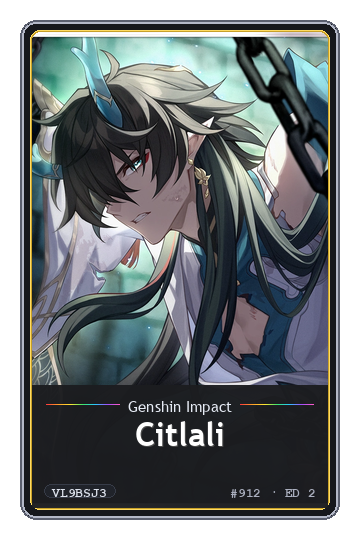
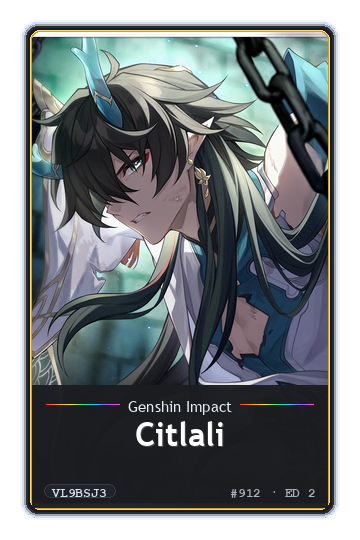
Update renderer with silver metallic border frame and full-height artwork fill

Changed region(s): [[0.0306, 0.0296, 0.9472, 0.9778]]

diff --git a/utils/renderer.py b/utils/renderer.py
@@ -147,31 +147,30 @@ def _draw_rainbow_line(target_img: Image.Image, box: tuple):
     target_img.paste(rainbow, (bx1, by1), rainbow)
 
 # ==========================================
-# 🖼 DRAW CARD (Exact Match to User Mockup)
+# 🖼 DRAW CARD (Silver Metallic Border Design)
 # ==========================================
 def draw_card_on_canvas(canvas: Image.Image, x: int, y: int, card_w: int, card_h: int,
                         raw_img: Image.Image, card_data: dict, font_title, font_series, font_badge):
-    """Draws a card where artwork fills 100% of the inner box height and bottom container overlays the bottom portion."""
+    """Draws a card with a sleek 3D silver-gray metallic outer border matching the user's mockup."""
     draw = ImageDraw.Draw(canvas)
     rarity_str = str(card_data.get("rarity", "Legendary")).lower()
 
-    # 1. Metallic Outer Frame
-    frame_r = 16
+    # 1. Sleek 3D Silver-Gray Metallic Outer Frame
+    frame_r = 18
     frame_img = Image.new("RGBA", (card_w, card_h), (0, 0, 0, 0))
     f_draw = ImageDraw.Draw(frame_img)
 
-    f_draw.rounded_rectangle([0, 0, card_w - 1, card_h - 1], radius=frame_r, fill=(28, 30, 36), outline=(90, 95, 110), width=2)
-    f_draw.rounded_rectangle([2, 2, card_w - 3, card_h - 3], radius=frame_r - 2, fill=(22, 24, 28), outline=(180, 185, 200), width=2)
+    # Silver metallic outer gradient layers
+    f_draw.rounded_rectangle([0, 0, card_w - 1, card_h - 1], radius=frame_r, fill=(185, 192, 205), outline=(240, 245, 255), width=2)
+    f_draw.rounded_rectangle([2, 2, card_w - 3, card_h - 3], radius=frame_r - 2, fill=(130, 138, 150), outline=(215, 222, 235), width=2)
+    f_draw.rounded_rectangle([4, 4, card_w - 5, card_h - 5], radius=frame_r - 4, fill=(65, 72, 82), outline=(155, 162, 175), width=2)
+    f_draw.rounded_rectangle([6, 6, card_w - 7, card_h - 7], radius=frame_r - 6, fill=(24, 26, 32), outline=(40, 43, 50), width=2)
 
     pad = 12
     view_x, view_y = pad, pad
     view_w, view_h = card_w - pad * 2, card_h - pad * 2
 
-    # Inner Viewport Box Fill
-    f_draw.rounded_rectangle([view_x, view_y, view_x + view_w - 1, view_y + view_h - 1],
-                             radius=8, fill=(18, 19, 22))
-
-    # Inner Gold Border
+    # Inner Viewport Box Fill & Thin Gold Accent Line
     f_draw.rounded_rectangle([view_x - 2, view_y - 2, view_x + view_w + 1, view_y + view_h + 1],
                              radius=10, fill=(200, 160, 40), outline=(255, 220, 100), width=1)
     f_draw.rounded_rectangle([view_x, view_y, view_x + view_w - 1, view_y + view_h - 1],
@@ -184,7 +183,7 @@ def draw_card_on_canvas(canvas: Image.Image, x: int, y: int, card_w: int, card_h
     content_w = view_w
     content_h = view_h
 
-    # 2. Artwork Viewport (Fills 100% of inner content box from top content_y to bottom content_y + content_h)
+    # 2. Artwork Viewport (Fills 100% of inner content box)
     fitted_art = fit_artwork_image(raw_img, content_w, content_h)
 
     # Rounded corners mask for inner content box
@@ -194,20 +193,19 @@ def draw_card_on_canvas(canvas: Image.Image, x: int, y: int, card_w: int, card_h
 
     canvas.paste(fitted_art, (content_x, content_y), art_mask)
 
-    # 3. Bottom Dark Overlay Container Section (Sits on top of bottom portion of artwork)
+    # 3. Bottom Dark Overlay Container Section
     bot_h = int(content_h * 0.26)
     bot_y = content_y + content_h - bot_h
 
     bot_overlay = Image.new("RGBA", (content_w, bot_h), (0, 0, 0, 0))
     bo_draw = ImageDraw.Draw(bot_overlay)
     
-    # Solid dark container background covering the bottom portion of artwork
-    bo_poly = [0, 0, content_w - 1, bot_h - 1]
-    bo_draw.rectangle(bo_poly, fill=(18, 19, 22, 245))
+    # Solid dark container background covering bottom portion of artwork
+    bo_draw.rectangle([0, 0, content_w - 1, bot_h - 1], fill=(18, 19, 22, 245))
 
     canvas.paste(bot_overlay, (content_x, bot_y), bot_overlay)
 
-    # 4. Series Name & Rarity Accent Line (Sits along the top of bottom container)
+    # 4. Series Name & Rarity Accent Line (Only the series lines take rarity color)
     series_name = card_data.get("series", card_data.get("series_name", "Genshin Impact"))[:24]
     s_bbox = font_series.getbbox(series_name)
     s_tw = s_bbox[2] - s_bbox[0] if s_bbox else len(series_name) * 8
